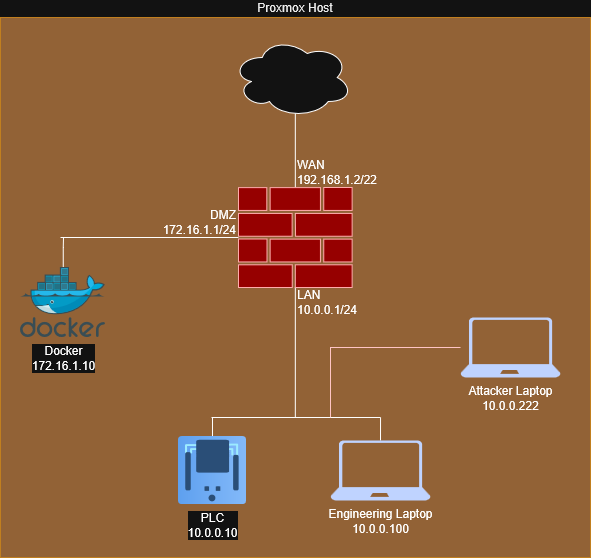
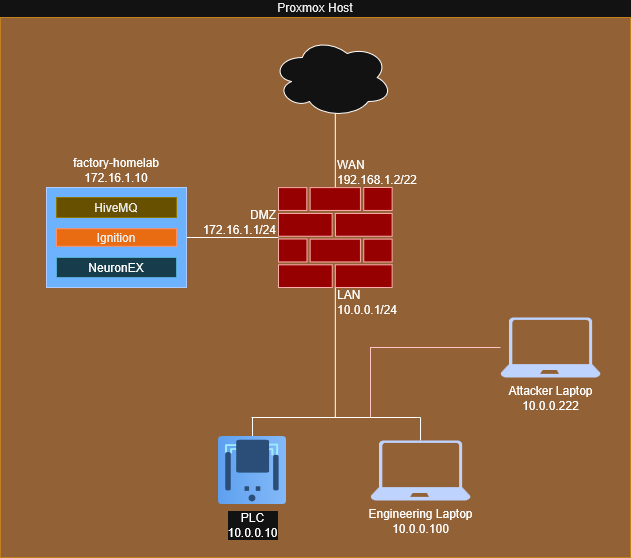
made some more changes

diff --git a/Awesome-Community-Builds/cdino-s7-1200/network.md b/Awesome-Community-Builds/cdino-s7-1200/network.md
@@ -1,2 +1,21 @@
 # Network
 ![network diagram](media/network.png)
+
+If, like me, you use a USB-to-Ethernet adapter to add extra NICs to your servers, make sure promiscuis mode is enabled for said adapter on the proxmox server!!!! (spent hours troubleshooting this...)
+
+```
+ip link set [nic] promisc on
+```
+
+also add the below to your /etc/network/interfaces file for the appropriate vmbr
+
+```
+post-up ip link set [nic] promisc on
+```
+
+## UNS System
+As part of my build, I'm setting up a UNS system using HiveMQ. This is totally optionally, and much more of a manufacturing system, but I wanted to share it anyway in case it was of help.
+
+I've included the [docker compose](docker-compose.yml) file (and my [Caddy](Caddyfile) file as reference) so you should be able to spin up my same set up pretty easily. 
+
+Grab a makers license for Igniton. It's free and is better than the trial.

diff --git a/Awesome-Community-Builds/cdino-s7-1200/README.md b/Awesome-Community-Builds/cdino-s7-1200/README.md
@@ -2,6 +2,10 @@
 ## DISCLAIMER
 I am not an automation engineer. I don't have an electrical engineering background, I've never been trained in automation, PLCs, wiring, etc - I've learned all of this from collegues and YouTube (and a little Claude). Therefore, please do take what I'm saying RE wiring, PLC programming, terminal blocks, etc, with a good pinch of salt. If you see something I've done in my design that is dumb (or dangerous!!) please get in touch and let me know, as I'm keen to refine this project as much as possible.
 
+## Index
+- [BOM](BOM.md)
+- [Network Diagram](network.md)
+
 ## About
 This design is presented by me, [Christopher Di-Nozzi](https://www.linkedin.com/in/christopher-d-794b35166/). My background is OT systems and security, meaning I am quite comfortable on a Linux machine or wireshark, but not so expereienced with designing, wiring, and programming automation gear all by myself. This project has, therefore, been a wonderful learning experience and I would encourage you, if you're considering it, to undertake this, or a similar hardware based, project to sharepen your skills and get a small taste of what engineers face.
 